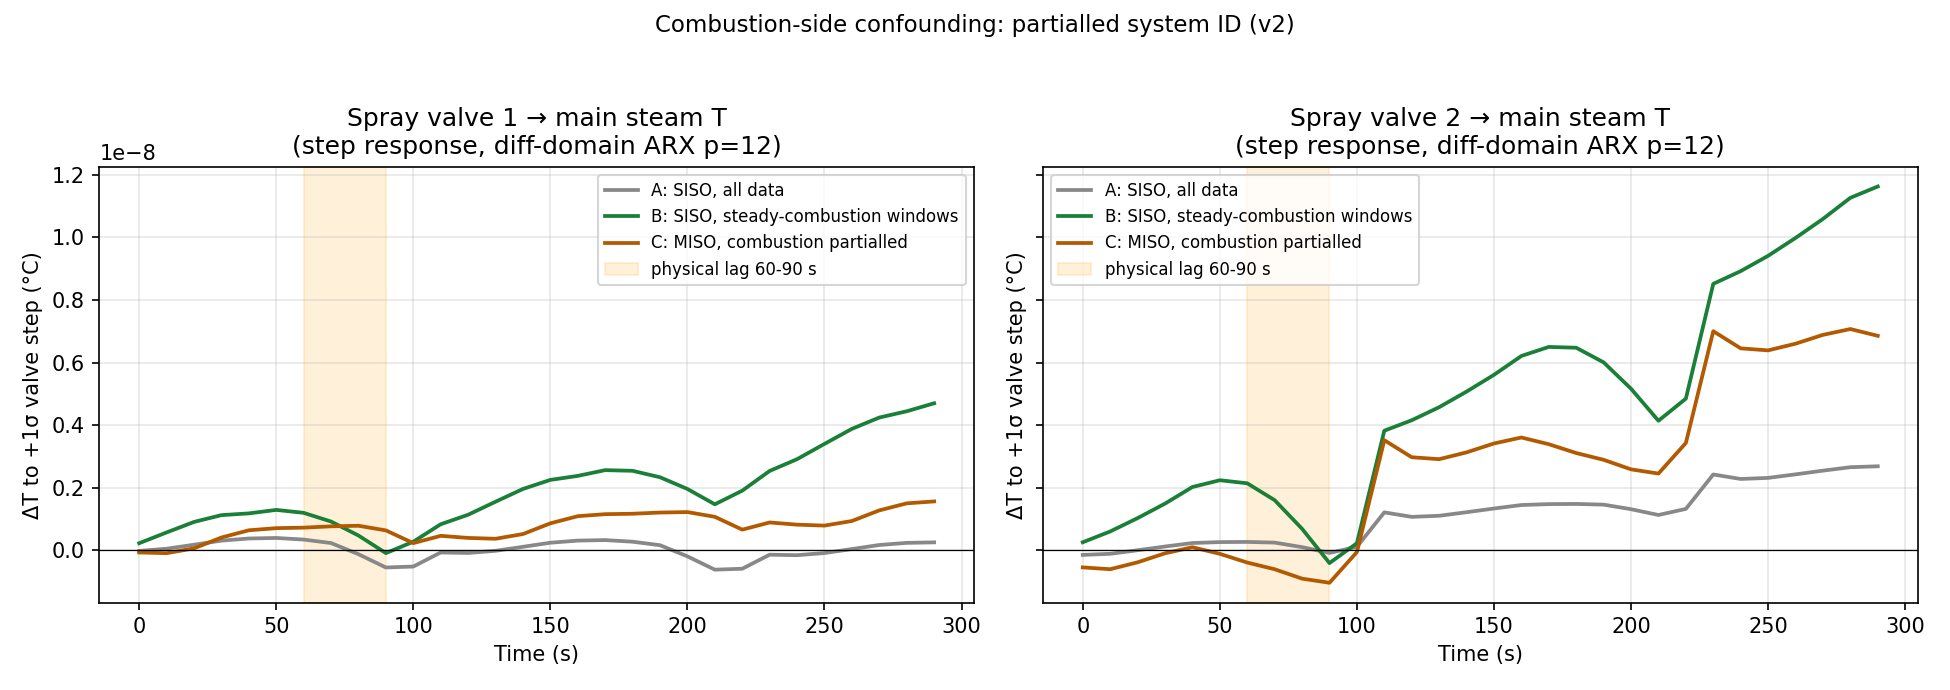
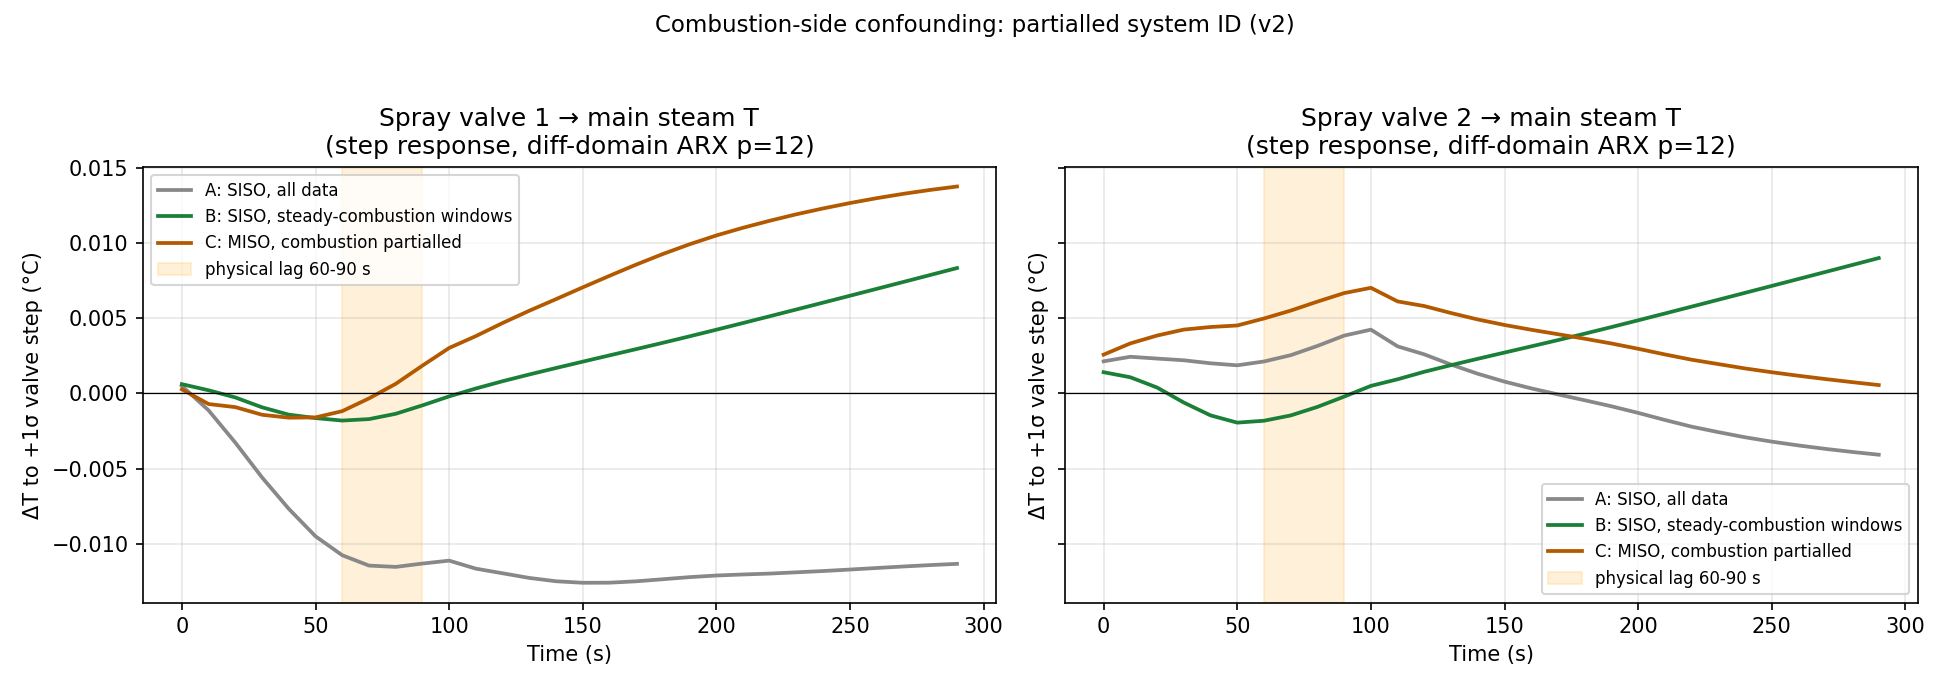
exp_083: 修复ARX滞后列索引错位(y[i:T-p+i]→y[p-i:T-i], 合成验证恢复系数); exp_084: 修复开/关拆分mask

diff --git a/experiments/phase1_dynamics/exp_083_combustion_partial_id.py b/experiments/phase1_dynamics/exp_083_combustion_partial_id.py
@@ -53,13 +53,13 @@ def ridge_arx(y, u, d, p=P, lam=RIDGE):
     D = np.zeros((T, nd)) if d is None else d
     cols = []
     for i in range(1, p + 1):
-        cols.append(y[i:T - p + i])
+        cols.append(y[p - i:T - i])                       # y_{t-i}
     for j in range(nu):
         for i in range(1, p + 1):
-            cols.append(u[i:T - p + i, j])
+            cols.append(u[p - i:T - i, j])                # u_j_{t-i}
     for j in range(nd):
         for i in range(1, p + 1):
-            cols.append(D[i:T - p + i, j])
+            cols.append(D[p - i:T - i, j])                # d_j_{t-i}
     X = np.column_stack(cols + [np.ones(T - p)])
     yt = y[p:T]
     XtX = X.T @ X

diff --git a/experiments/phase1_dynamics/exp_084_event_study_combustion.py b/experiments/phase1_dynamics/exp_084_event_study_combustion.py
@@ -109,8 +109,8 @@ def main():
     m_ss, ci_ss, n_ss = avg_curve(steady, 'steady', sign=+1)
     m_ac, ci_ac, n_ac = avg_curve(active, 'active', sign=+1)
     # 开阀/关阀拆分统计
-    m_open, ci_open, n_open = avg_curve(np.ones(len(ev), bool), 'open', sign=+1)
-    m_close, ci_close, n_close = avg_curve(np.ones(len(ev), bool), 'close', sign=-1)
+    m_open, ci_open, n_open = avg_curve(ev_dir > 0, 'open', sign=+1)
+    m_close, ci_close, n_close = avg_curve(ev_dir < 0, 'close', sign=-1)
 
     # 关键指标
     w60 = slice(6, 10)
